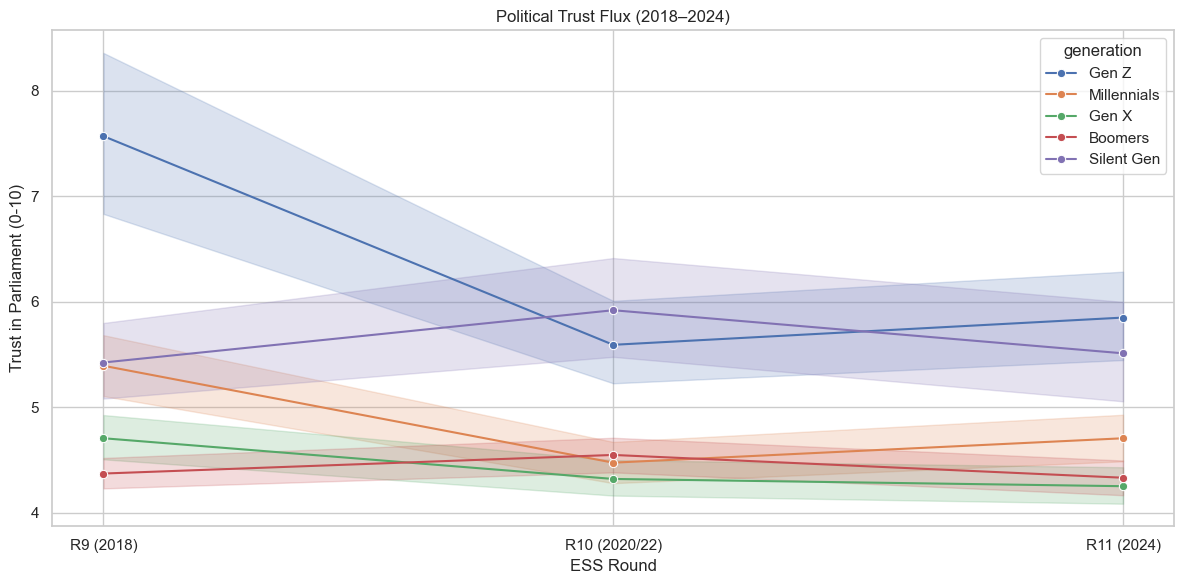
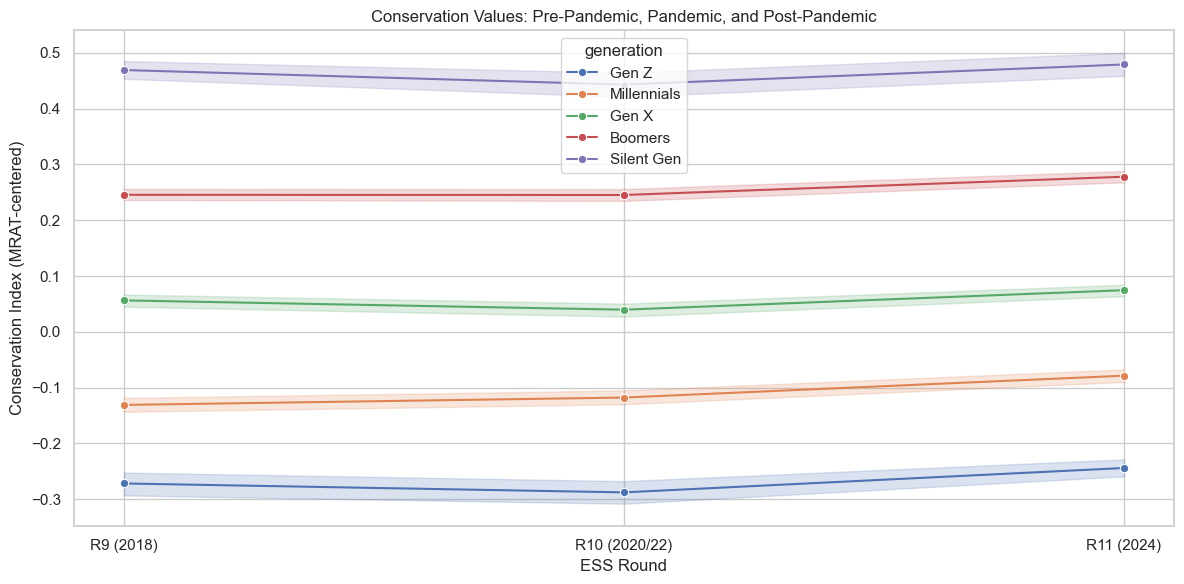
Built site for gh-pages

diff --git a/pelin_analysis.html b/pelin_analysis.html
@@ -110,6 +110,7 @@ pre > code.sourceCode > span > a:first-child::before { text-decoration: underlin
 <script type="application/javascript">define('jquery', [],function() {return window.jQuery;})</script>
 
 
+<link rel="stylesheet" href="styles.css">
 </head>
 
 <body class="nav-sidebar docked nav-fixed quarto-light">
@@ -253,11 +254,11 @@ pre > code.sourceCode > span > a:first-child::before { text-decoration: underlin
 
 <p>This analysis investigates whether the COVID-19 pandemic led to measurable changes in Conservation values (Security, Conformity, Tradition) and Political Trust in Europe. Using data from the European Social Survey (ESS), we examine three time points: Round 9 (2018) as the pre-pandemic baseline, Round 10 (2020/22) as the pandemic period, and Round 11 (2024) as the post-pandemic landscape.</p>
 <blockquote class="blockquote">
-<p><strong>Note on Data:</strong> The dataset uses MRAT-corrected (mean-centered) Schwartz value scores, which remove individual response style bias and allow reliable comparisons across rounds and generations. All three ESS rounds contain complete value data in this version of the dataset.</p>
+<p><strong>Note on Data:</strong> The dataset uses MRAT-corrected (mean-centered) Schwartz value scores, which remove individual response style bias and allow reliable comparisons across rounds and generations. Round 10 has reduced availability for Conservation value items (~61%), as documented in the data quality check below.</p>
 </blockquote>
 <section id="import-and-data-load" class="level2">
 <h2 class="anchored" data-anchor-id="import-and-data-load">Import and Data Load</h2>
-<div id="cell-import" class="cell" data-execution_count="8">
+<div id="cell-import" class="cell" data-execution_count="2">
 <details class="code-fold">
 <summary>Code</summary>
 <div class="code-copy-outer-scaffold"><div class="sourceCode cell-code" id="cb1"><pre class="sourceCode python code-with-copy"><code class="sourceCode python"><span id="cb1-1"><a href="#cb1-1" aria-hidden="true" tabindex="-1"></a><span class="im">import</span> pandas <span class="im">as</span> pd</span>
@@ -447,7 +448,7 @@ pre > code.sourceCode > span > a:first-child::before { text-decoration: underlin
 </section>
 <section id="index-construction-data-quality-check" class="level2">
 <h2 class="anchored" data-anchor-id="index-construction-data-quality-check">Index Construction &amp; Data Quality Check</h2>
-<div id="cell-index" class="cell" data-execution_count="9">
+<div id="cell-index" class="cell">
 <details class="code-fold">
 <summary>Code</summary>
 <div class="code-copy-outer-scaffold"><div class="sourceCode cell-code" id="cb3"><pre class="sourceCode python code-with-copy"><code class="sourceCode python"><span id="cb3-1"><a href="#cb3-1" aria-hidden="true" tabindex="-1"></a><span class="co"># 1. Conservation Index from MRAT-corrected (centered) scores</span></span>
@@ -469,7 +470,7 @@ pre > code.sourceCode > span > a:first-child::before { text-decoration: underlin
 <span id="cb3-17"><a href="#cb3-17" aria-hidden="true" tabindex="-1"></a>quality_df <span class="op">=</span> pd.DataFrame(quality_data).T</span>
 <span id="cb3-18"><a href="#cb3-18" aria-hidden="true" tabindex="-1"></a><span class="bu">print</span>(<span class="st">"--- Column Availability by ESS Round ---"</span>)</span>
 <span id="cb3-19"><a href="#cb3-19" aria-hidden="true" tabindex="-1"></a>display(quality_df)</span>
-<span id="cb3-20"><a href="#cb3-20" aria-hidden="true" tabindex="-1"></a><span class="bu">print</span>(<span class="st">"</span><span class="ch">\n</span><span class="st">-&gt; All value columns available across all three rounds."</span>)</span></code></pre></div><button title="Copy to Clipboard" class="code-copy-button"><i class="bi"></i></button></div>
+<span id="cb3-20"><a href="#cb3-20" aria-hidden="true" tabindex="-1"></a><span class="bu">print</span>(<span class="st">"</span><span class="ch">\n</span><span class="st">-&gt; Round 10 has reduced availability (~61%) for Conservation items."</span>)</span></code></pre></div><button title="Copy to Clipboard" class="code-copy-button"><i class="bi"></i></button></div>
 </details>
 <div class="cell-output cell-output-stdout">
 <pre><code>--- Column Availability by ESS Round ---</code></pre>
@@ -531,7 +532,7 @@ pre > code.sourceCode > span > a:first-child::before { text-decoration: underlin
 </section>
 <section id="statistical-analysis" class="level2">
 <h2 class="anchored" data-anchor-id="statistical-analysis">Statistical Analysis</h2>
-<div id="cell-stats" class="cell" data-execution_count="10">
+<div id="cell-stats" class="cell" data-execution_count="12">
 <details class="code-fold">
 <summary>Code</summary>
 <div class="code-copy-outer-scaffold"><div class="sourceCode cell-code" id="cb6"><pre class="sourceCode python code-with-copy"><code class="sourceCode python"><span id="cb6-1"><a href="#cb6-1" aria-hidden="true" tabindex="-1"></a>r9 <span class="op">=</span> df[df[<span class="st">'essround'</span>] <span class="op">==</span> <span class="dv">9</span>]</span>
@@ -571,69 +572,62 @@ Political Trust R9 vs R10 p-value: 0.00018 (Significant)
 Political Trust R9 vs R11 p-value: 0.00002 (Significant)</code></pre>
 </div>
 </div>
+<div id="e0575264" class="cell" data-execution_count="15">
+<details class="code-fold">
+<summary>Code</summary>
+<div class="code-copy-outer-scaffold"><div class="sourceCode cell-code" id="cb8"><pre class="sourceCode python code-with-copy"><code class="sourceCode python"><span id="cb8-1"><a href="#cb8-1" aria-hidden="true" tabindex="-1"></a><span class="kw">def</span> cohens_d(x, y):</span>
+<span id="cb8-2"><a href="#cb8-2" aria-hidden="true" tabindex="-1"></a>    nx, ny <span class="op">=</span> <span class="bu">len</span>(x.dropna()), <span class="bu">len</span>(y.dropna())</span>
+<span id="cb8-3"><a href="#cb8-3" aria-hidden="true" tabindex="-1"></a>    pooled_std <span class="op">=</span> np.sqrt(((nx<span class="op">-</span><span class="dv">1</span>)<span class="op">*</span>x.dropna().std()<span class="op">**</span><span class="dv">2</span> <span class="op">+</span> (ny<span class="op">-</span><span class="dv">1</span>)<span class="op">*</span>y.dropna().std()<span class="op">**</span><span class="dv">2</span>) <span class="op">/</span> (nx<span class="op">+</span>ny<span class="op">-</span><span class="dv">2</span>))</span>
+<span id="cb8-4"><a href="#cb8-4" aria-hidden="true" tabindex="-1"></a>    <span class="cf">return</span> (x.dropna().mean() <span class="op">-</span> y.dropna().mean()) <span class="op">/</span> pooled_std</span>
+<span id="cb8-5"><a href="#cb8-5" aria-hidden="true" tabindex="-1"></a></span>
+<span id="cb8-6"><a href="#cb8-6" aria-hidden="true" tabindex="-1"></a><span class="bu">print</span>(<span class="st">"=== EFFECT SIZES (Cohen's d) ==="</span>)</span>
+<span id="cb8-7"><a href="#cb8-7" aria-hidden="true" tabindex="-1"></a><span class="bu">print</span>(<span class="ss">f"Conservation R9 vs R10: d = </span><span class="sc">{</span>cohens_d(r9[<span class="st">'Conservation'</span>], r10[<span class="st">'Conservation'</span>])<span class="sc">:.3f}</span><span class="ss">"</span>)</span>
+<span id="cb8-8"><a href="#cb8-8" aria-hidden="true" tabindex="-1"></a><span class="bu">print</span>(<span class="ss">f"Conservation R9 vs R11: d = </span><span class="sc">{</span>cohens_d(r9[<span class="st">'Conservation'</span>], r11[<span class="st">'Conservation'</span>])<span class="sc">:.3f}</span><span class="ss">"</span>)</span>
+<span id="cb8-9"><a href="#cb8-9" aria-hidden="true" tabindex="-1"></a><span class="bu">print</span>(<span class="ss">f"Political Trust R9 vs R10: d = </span><span class="sc">{</span>cohens_d(r9[<span class="st">'Political_Trust'</span>], r10[<span class="st">'Political_Trust'</span>])<span class="sc">:.3f}</span><span class="ss">"</span>)</span>
+<span id="cb8-10"><a href="#cb8-10" aria-hidden="true" tabindex="-1"></a><span class="bu">print</span>(<span class="ss">f"Political Trust R9 vs R11: d = </span><span class="sc">{</span>cohens_d(r9[<span class="st">'Political_Trust'</span>], r11[<span class="st">'Political_Trust'</span>])<span class="sc">:.3f}</span><span class="ss">"</span>)</span></code></pre></div><button title="Copy to Clipboard" class="code-copy-button"><i class="bi"></i></button></div>
+</details>
+<div class="cell-output cell-output-stdout">
+<pre><code>=== EFFECT SIZES (Cohen's d) ===
+Conservation R9 vs R10: d = 0.061
+Conservation R9 vs R11: d = 0.026
+Political Trust R9 vs R10: d = 0.028
+Political Trust R9 vs R11: d = 0.034</code></pre>
+</div>
+</div>
 <p>The summary statistics and t-tests provide the following insights:</p>
 <p><strong>Conservation Values</strong></p>
 <p><em>R9 vs R10 (Pandemic Period):</em> Conservation scores declined from a pre-pandemic mean of 0.114 (R9) to 0.077 (R10) during the pandemic. This difference is statistically significant (p &lt; 0.001).</p>
 <p><em>R9 vs R11 (Long-Term):</em> By 2024, Conservation values partially recovered to a mean of 0.098, but remained below the pre-pandemic baseline. This difference is also statistically significant (p &lt; 0.001).</p>
 <p>The direction of change is counterintuitive: rather than driving Europeans toward greater security-seeking and conformity, the pandemic appears to have slightly loosened conservation-oriented value priorities.</p>
+<p>While both comparisons reach statistical significance due to the large sample size (n ≈ 136,000), the effect sizes are negligible (Cohen’s d = 0.061 for R9 vs R10; d = 0.026 for R9 vs R11). This indicates that although the shifts are real, they are very small in practical terms and should be interpreted with caution.</p>
 <p><strong>Political Trust</strong></p>
 <p><em>R9 vs R10 (Pandemic Period):</em> Trust in parliament dropped from a pre-pandemic mean of 4.99 (R9) to 4.70 (R10). This decline is statistically significant (p &lt; 0.001).</p>
 <p><em>R9 vs R11 (Long-Term):</em> By 2024, trust measured 4.65, remaining below both the pre-pandemic and pandemic-period levels. This difference is statistically significant (p &lt; 0.001).</p>
 <p>The pattern suggests that the pandemic functioned as a lasting trust-eroding event rather than a temporary disruption.</p>
+<p>Effect sizes for political trust are similarly small (Cohen’s d = 0.028 for R9 vs R10; d = 0.034 for R9 vs R11), suggesting that while the decline is statistically robust, the magnitude of change at the aggregate level is modest.</p>
 </section>
 <section id="visualization" class="level2">
 <h2 class="anchored" data-anchor-id="visualization">Visualization</h2>
 <p><em>Figure 1 presents the generational trends in Conservation values across the three ESS rounds (R9: 2018, R10: 2020/22, R11: 2024). The MRAT-centered Conservation Index is plotted on the y-axis, with higher values indicating stronger prioritization of security, conformity, and tradition:</em></p>
-<div id="cell-viz" class="cell" data-execution_count="6">
+<div id="cell-viz" class="cell" data-execution_count="13">
 <details class="code-fold">
 <summary>Code</summary>
-<div class="code-copy-outer-scaffold"><div class="sourceCode cell-code" id="cb8"><pre class="sourceCode python code-with-copy"><code class="sourceCode python"><span id="cb8-1"><a href="#cb8-1" aria-hidden="true" tabindex="-1"></a>gen_order <span class="op">=</span> [<span class="st">'Gen Z'</span>, <span class="st">'Millennials'</span>, <span class="st">'Gen X'</span>, <span class="st">'Boomers'</span>, <span class="st">'Silent Gen'</span>]</span>
-<span id="cb8-2"><a href="#cb8-2" aria-hidden="true" tabindex="-1"></a></span>
-<span id="cb8-3"><a href="#cb8-3" aria-hidden="true" tabindex="-1"></a><span class="co"># Graph 1: Conservation Trend by Generation (all 3 rounds)</span></span>
-<span id="cb8-4"><a href="#cb8-4" aria-hidden="true" tabindex="-1"></a>plt.figure(figsize<span class="op">=</span>(<span class="dv">12</span>, <span class="dv">6</span>))</span>
-<span id="cb8-5"><a href="#cb8-5" aria-hidden="true" tabindex="-1"></a>sns.lineplot(</span>
-<span id="cb8-6"><a href="#cb8-6" aria-hidden="true" tabindex="-1"></a>    data<span class="op">=</span>df[df[<span class="st">'essround'</span>].isin([<span class="dv">9</span>, <span class="dv">10</span>, <span class="dv">11</span>])],</span>
-<span id="cb8-7"><a href="#cb8-7" aria-hidden="true" tabindex="-1"></a>    x<span class="op">=</span><span class="st">'essround'</span>, y<span class="op">=</span><span class="st">'Conservation'</span>,</span>
-<span id="cb8-8"><a href="#cb8-8" aria-hidden="true" tabindex="-1"></a>    hue<span class="op">=</span><span class="st">'generation'</span>, marker<span class="op">=</span><span class="st">'o'</span>,</span>
-<span id="cb8-9"><a href="#cb8-9" aria-hidden="true" tabindex="-1"></a>    hue_order<span class="op">=</span>gen_order</span>
-<span id="cb8-10"><a href="#cb8-10" aria-hidden="true" tabindex="-1"></a>)</span>
-<span id="cb8-11"><a href="#cb8-11" aria-hidden="true" tabindex="-1"></a>plt.title(<span class="st">"Conservation Values: Pre-Pandemic, Pandemic, and Post-Pandemic"</span>)</span>
-<span id="cb8-12"><a href="#cb8-12" aria-hidden="true" tabindex="-1"></a>plt.xticks([<span class="dv">9</span>, <span class="dv">10</span>, <span class="dv">11</span>], [<span class="st">'R9 (2018)'</span>, <span class="st">'R10 (2020/22)'</span>, <span class="st">'R11 (2024)'</span>])</span>
-<span id="cb8-13"><a href="#cb8-13" aria-hidden="true" tabindex="-1"></a>plt.ylabel(<span class="st">"Conservation Index (MRAT-centered)"</span>)</span>
-<span id="cb8-14"><a href="#cb8-14" aria-hidden="true" tabindex="-1"></a>plt.xlabel(<span class="st">"ESS Round"</span>)</span>
-<span id="cb8-15"><a href="#cb8-15" aria-hidden="true" tabindex="-1"></a>plt.tight_layout()</span>
-<span id="cb8-16"><a href="#cb8-16" aria-hidden="true" tabindex="-1"></a>plt.show()</span></code></pre></div><button title="Copy to Clipboard" class="code-copy-button"><i class="bi"></i></button></div>
-</details>
-<div class="cell-output cell-output-display">
-<div>
-<figure class="figure">
-<p><img src="pelin_analysis_files/figure-html/cell-5-output-1.png" class="img-fluid figure-img"></p>
-</figure>
-</div>
-</div>
-</div>
-<p>Figure 1 reveals a clear and stable generational hierarchy across all three rounds. Silent Gen consistently scores highest on Conservation, followed by Millennials, Gen X, Boomers, and Gen Z (lowest). This ordering remains unchanged from 2018 to 2024.</p>
-<p>At the aggregate level (all generations combined), Conservation values show a modest decline from R9 to R10 followed by a partial recovery in R11.</p>
-<p>The findings confirm conventional expectations: older generations consistently prioritize Conservation values (security, conformity, and tradition) more highly than their younger counterparts. Gen Z and Millennials score lowest on Conservation throughout the 2018–2024 period. This generational hierarchy proves resilient across the pandemic, with no reversal or convergence observed.</p>
-<hr>
-<p><em>Figure 2 presents the generational trends in Political Trust across the same three rounds, measured on a 0–10 scale (higher values = greater trust in parliament):</em></p>
-<div id="596286c9" class="cell" data-execution_count="7">
-<details class="code-fold">
-<summary>Code</summary>
-<div class="code-copy-outer-scaffold"><div class="sourceCode cell-code" id="cb9"><pre class="sourceCode python code-with-copy"><code class="sourceCode python"><span id="cb9-1"><a href="#cb9-1" aria-hidden="true" tabindex="-1"></a><span class="co"># Graph 2: Political Trust Trend (all 3 rounds)</span></span>
-<span id="cb9-2"><a href="#cb9-2" aria-hidden="true" tabindex="-1"></a>plt.figure(figsize<span class="op">=</span>(<span class="dv">12</span>, <span class="dv">6</span>))</span>
-<span id="cb9-3"><a href="#cb9-3" aria-hidden="true" tabindex="-1"></a>sns.lineplot(</span>
-<span id="cb9-4"><a href="#cb9-4" aria-hidden="true" tabindex="-1"></a>    data<span class="op">=</span>df[df[<span class="st">'essround'</span>].isin([<span class="dv">9</span>, <span class="dv">10</span>, <span class="dv">11</span>])],</span>
-<span id="cb9-5"><a href="#cb9-5" aria-hidden="true" tabindex="-1"></a>    x<span class="op">=</span><span class="st">'essround'</span>, y<span class="op">=</span><span class="st">'Political_Trust'</span>,</span>
-<span id="cb9-6"><a href="#cb9-6" aria-hidden="true" tabindex="-1"></a>    hue<span class="op">=</span><span class="st">'generation'</span>, marker<span class="op">=</span><span class="st">'o'</span>,</span>
-<span id="cb9-7"><a href="#cb9-7" aria-hidden="true" tabindex="-1"></a>    hue_order<span class="op">=</span>gen_order</span>
-<span id="cb9-8"><a href="#cb9-8" aria-hidden="true" tabindex="-1"></a>)</span>
-<span id="cb9-9"><a href="#cb9-9" aria-hidden="true" tabindex="-1"></a>plt.title(<span class="st">"Political Trust Flux (2018–2024)"</span>)</span>
-<span id="cb9-10"><a href="#cb9-10" aria-hidden="true" tabindex="-1"></a>plt.xticks([<span class="dv">9</span>, <span class="dv">10</span>, <span class="dv">11</span>], [<span class="st">'R9 (2018)'</span>, <span class="st">'R10 (2020/22)'</span>, <span class="st">'R11 (2024)'</span>])</span>
-<span id="cb9-11"><a href="#cb9-11" aria-hidden="true" tabindex="-1"></a>plt.ylabel(<span class="st">"Trust in Parliament (0-10)"</span>)</span>
-<span id="cb9-12"><a href="#cb9-12" aria-hidden="true" tabindex="-1"></a>plt.xlabel(<span class="st">"ESS Round"</span>)</span>
-<span id="cb9-13"><a href="#cb9-13" aria-hidden="true" tabindex="-1"></a>plt.tight_layout()</span>
-<span id="cb9-14"><a href="#cb9-14" aria-hidden="true" tabindex="-1"></a>plt.show()</span></code></pre></div><button title="Copy to Clipboard" class="code-copy-button"><i class="bi"></i></button></div>
+<div class="code-copy-outer-scaffold"><div class="sourceCode cell-code" id="cb10"><pre class="sourceCode python code-with-copy"><code class="sourceCode python"><span id="cb10-1"><a href="#cb10-1" aria-hidden="true" tabindex="-1"></a>gen_order <span class="op">=</span> [<span class="st">'Gen Z'</span>, <span class="st">'Millennials'</span>, <span class="st">'Gen X'</span>, <span class="st">'Boomers'</span>, <span class="st">'Silent Gen'</span>]</span>
+<span id="cb10-2"><a href="#cb10-2" aria-hidden="true" tabindex="-1"></a></span>
+<span id="cb10-3"><a href="#cb10-3" aria-hidden="true" tabindex="-1"></a><span class="co"># Graph 1: Conservation Trend by Generation (all 3 rounds)</span></span>
+<span id="cb10-4"><a href="#cb10-4" aria-hidden="true" tabindex="-1"></a>plt.figure(figsize<span class="op">=</span>(<span class="dv">12</span>, <span class="dv">6</span>))</span>
+<span id="cb10-5"><a href="#cb10-5" aria-hidden="true" tabindex="-1"></a>sns.lineplot(</span>
+<span id="cb10-6"><a href="#cb10-6" aria-hidden="true" tabindex="-1"></a>    data<span class="op">=</span>df[df[<span class="st">'essround'</span>].isin([<span class="dv">9</span>, <span class="dv">10</span>, <span class="dv">11</span>])],</span>
+<span id="cb10-7"><a href="#cb10-7" aria-hidden="true" tabindex="-1"></a>    x<span class="op">=</span><span class="st">'essround'</span>, y<span class="op">=</span><span class="st">'Conservation'</span>,</span>
+<span id="cb10-8"><a href="#cb10-8" aria-hidden="true" tabindex="-1"></a>    hue<span class="op">=</span><span class="st">'generation'</span>, marker<span class="op">=</span><span class="st">'o'</span>,</span>
+<span id="cb10-9"><a href="#cb10-9" aria-hidden="true" tabindex="-1"></a>    hue_order<span class="op">=</span>gen_order</span>
+<span id="cb10-10"><a href="#cb10-10" aria-hidden="true" tabindex="-1"></a>)</span>
+<span id="cb10-11"><a href="#cb10-11" aria-hidden="true" tabindex="-1"></a>plt.title(<span class="st">"Conservation Values: Pre-Pandemic, Pandemic, and Post-Pandemic"</span>)</span>
+<span id="cb10-12"><a href="#cb10-12" aria-hidden="true" tabindex="-1"></a>plt.xticks([<span class="dv">9</span>, <span class="dv">10</span>, <span class="dv">11</span>], [<span class="st">'R9 (2018)'</span>, <span class="st">'R10 (2020/22)'</span>, <span class="st">'R11 (2024)'</span>])</span>
+<span id="cb10-13"><a href="#cb10-13" aria-hidden="true" tabindex="-1"></a>plt.ylabel(<span class="st">"Conservation Index (MRAT-centered)"</span>)</span>
+<span id="cb10-14"><a href="#cb10-14" aria-hidden="true" tabindex="-1"></a>plt.xlabel(<span class="st">"ESS Round"</span>)</span>
+<span id="cb10-15"><a href="#cb10-15" aria-hidden="true" tabindex="-1"></a>plt.tight_layout()</span>
+<span id="cb10-16"><a href="#cb10-16" aria-hidden="true" tabindex="-1"></a>plt.show()</span></code></pre></div><button title="Copy to Clipboard" class="code-copy-button"><i class="bi"></i></button></div>
 </details>
 <div class="cell-output cell-output-display">
 <div>
@@ -643,12 +637,42 @@ Political Trust R9 vs R11 p-value: 0.00002 (Significant)</code></pre>
 </div>
 </div>
 </div>
+<p>Figure 1 reveals a clear and stable generational hierarchy across all three rounds. Silent Gen consistently scores highest on Conservation, followed by Boomers, Gen X, Millennials, and Gen Z (lowest). This ordering remains unchanged from 2018 to 2024.</p>
+<p>At the aggregate level (all generations combined), Conservation values show a modest decline from R9 to R10 followed by a partial recovery in R11.</p>
+<p>The findings confirm conventional expectations: older generations consistently prioritize Conservation values (security, conformity, and tradition) more highly than their younger counterparts. Gen Z and Millennials score lowest on Conservation throughout the 2018–2024 period. This generational hierarchy proves resilient across the pandemic, with no reversal or convergence observed.</p>
+<p><em>Figure 2 presents the generational trends in Political Trust across the same three rounds, measured on a 0–10 scale (higher values = greater trust in parliament):</em></p>
+<div id="596286c9" class="cell" data-execution_count="14">
+<details class="code-fold">
+<summary>Code</summary>
+<div class="code-copy-outer-scaffold"><div class="sourceCode cell-code" id="cb11"><pre class="sourceCode python code-with-copy"><code class="sourceCode python"><span id="cb11-1"><a href="#cb11-1" aria-hidden="true" tabindex="-1"></a><span class="co"># Graph 2: Political Trust Trend (all 3 rounds)</span></span>
+<span id="cb11-2"><a href="#cb11-2" aria-hidden="true" tabindex="-1"></a>plt.figure(figsize<span class="op">=</span>(<span class="dv">12</span>, <span class="dv">6</span>))</span>
+<span id="cb11-3"><a href="#cb11-3" aria-hidden="true" tabindex="-1"></a>sns.lineplot(</span>
+<span id="cb11-4"><a href="#cb11-4" aria-hidden="true" tabindex="-1"></a>    data<span class="op">=</span>df[df[<span class="st">'essround'</span>].isin([<span class="dv">9</span>, <span class="dv">10</span>, <span class="dv">11</span>])],</span>
+<span id="cb11-5"><a href="#cb11-5" aria-hidden="true" tabindex="-1"></a>    x<span class="op">=</span><span class="st">'essround'</span>, y<span class="op">=</span><span class="st">'Political_Trust'</span>,</span>
+<span id="cb11-6"><a href="#cb11-6" aria-hidden="true" tabindex="-1"></a>    hue<span class="op">=</span><span class="st">'generation'</span>, marker<span class="op">=</span><span class="st">'o'</span>,</span>
+<span id="cb11-7"><a href="#cb11-7" aria-hidden="true" tabindex="-1"></a>    hue_order<span class="op">=</span>gen_order</span>
+<span id="cb11-8"><a href="#cb11-8" aria-hidden="true" tabindex="-1"></a>)</span>
+<span id="cb11-9"><a href="#cb11-9" aria-hidden="true" tabindex="-1"></a>plt.title(<span class="st">"Political Trust Flux (2018–2024)"</span>)</span>
+<span id="cb11-10"><a href="#cb11-10" aria-hidden="true" tabindex="-1"></a>plt.xticks([<span class="dv">9</span>, <span class="dv">10</span>, <span class="dv">11</span>], [<span class="st">'R9 (2018)'</span>, <span class="st">'R10 (2020/22)'</span>, <span class="st">'R11 (2024)'</span>])</span>
+<span id="cb11-11"><a href="#cb11-11" aria-hidden="true" tabindex="-1"></a>plt.ylabel(<span class="st">"Trust in Parliament (0-10)"</span>)</span>
+<span id="cb11-12"><a href="#cb11-12" aria-hidden="true" tabindex="-1"></a>plt.xlabel(<span class="st">"ESS Round"</span>)</span>
+<span id="cb11-13"><a href="#cb11-13" aria-hidden="true" tabindex="-1"></a>plt.tight_layout()</span>
+<span id="cb11-14"><a href="#cb11-14" aria-hidden="true" tabindex="-1"></a>plt.show()</span></code></pre></div><button title="Copy to Clipboard" class="code-copy-button"><i class="bi"></i></button></div>
+</details>
+<div class="cell-output cell-output-display">
+<div>
+<figure class="figure">
+<p><img src="pelin_analysis_files/figure-html/cell-7-output-1.png" class="img-fluid figure-img"></p>
+</figure>
+</div>
+</div>
+</div>
 <p>Figure 2 shows a sustained decline in political trust across most generations, but with notable differences in magnitude, timing, and trajectory.</p>
-<p>Gen Z enters the period with the highest trust and experiences the steepest decline (to approximately 5.8 by R10), with only a negligible recovery by R11.</p>
-<p>Silent Gen begins with the second-highest trust, increases slightly in R10, then declines by R11.</p>
-<p>Millennials start at a similar level to Silent Gen, drop to 4.8 in R10, and partially recover to 4.9 by R11.</p>
-<p>Gen X declines steadily from 4.6 (R9) to 4.2 (R10) and further to 4.0 (R11), becoming the lowest-trust group by the end of the period.*</p>
-<p>Boomers begin with the lowest trust (4.3 in R9), increase slightly to 4.4 in R10, then decline to 4.1 by R11.</p>
+<p>Gen Z enters the period with the highest trust (7.57) and experiences the steepest decline (to 5.59 by R10), with a slight recovery to 5.85 by R11.</p>
+<p>Silent Gen begins with the second-highest trust (5.42), increases to 5.92 in R10, then declines to 5.51 by R11.</p>
+<p>Millennials start at a similar level to Silent Gen (5.39), drop to 4.48 in R10, and partially recover to 4.71 by R11.</p>
+<p>Gen X declines steadily from 4.71 (R9) to 4.32 (R10) and further to 4.25 (R11).</p>
+<p>Boomers begin with the lowest trust (4.37 in R9), increase slightly to 4.55 in R10, then decline to 4.33 by R11.</p>
 <p>The pandemic appears to have eroded political trust across all age groups, though not uniformly. Gen Z experienced the largest absolute decline, while Boomers showed a temporary increase during the pandemic before declining. Trust levels remain divergent by R11, with Gen X falling below Boomers.</p>
 </section>
 <section id="conclusion" class="level2">
@@ -660,19 +684,21 @@ Political Trust R9 vs R11 p-value: 0.00002 (Significant)</code></pre>
 <p>The modest aggregate decline in Conservation values, combined with this stable generational hierarchy, suggests that while the pandemic may have slightly loosened conservation-oriented priorities overall, deep-seated generational value differences; with older generations placing greater emphasis on security, conformity, and tradition; remained largely resilient to the shock.</p>
 <p><strong>Political Trust</strong></p>
 <p>Political trust shows a clear and significant decline.</p>
-<p>Figure 2 reveals that generational trajectories differ substantially. Gen Z starts highest (7.5), declines most sharply (to 5.8), and recovers only marginally by R11 (5.9). Silent Gen and Millennials begin at similar levels (≈5.4), but while Millennials drop immediately and partially recover, Silent Gen increases slightly in R10 before declining to 5.0. Boomers increase temporarily in R10 (4.3 → 4.4) before falling to 4.1, whereas Gen X declines steadily to become the lowest-trust group by R11 (4.0). Trust levels do not converge by 2024.</p>
+<p>Figure 2 reveals that generational trajectories differ substantially. Gen Z starts highest (7.57), declines most sharply (to 5.59 in R10), and partially recovers to 5.85 by R11. Silent Gen and Millennials begin at similar levels (≈5.4), but while Millennials drop immediately and partially recover, Silent Gen increases to 5.92 in R10 before declining to 5.51. Boomers increase temporarily in R10 (4.37 → 4.55) before falling to 4.33, whereas Gen X declines steadily to become the lowest-trust group by R11 (4.25). Trust levels do not converge by 2024.</p>
 <p>The pandemic eroded political trust across all age groups, but younger generations, who entered the period with higher trust, experienced the largest absolute declines. By 2024, trust levels across generations had largely converged downward.</p>
 <p><strong>Summary</strong></p>
 <table class="caption-top table">
 <colgroup>
 <col style="width: 22%">
 <col style="width: 34%">
-<col style="width: 42%">
+<col style="width: 22%">
+<col style="width: 20%">
 </colgroup>
 <thead>
 <tr class="header">
 <th>Dimension</th>
 <th>Aggregate Change</th>
+<th>Effect Size</th>
 <th>Generational Pattern</th>
 </tr>
 </thead>
@@ -680,16 +706,19 @@ Political Trust R9 vs R11 p-value: 0.00002 (Significant)</code></pre>
 <tr class="odd">
 <td><strong>Conservation</strong></td>
 <td>Modest, significant decline (R9→R10) followed by partial recovery (R11)</td>
+<td>Negligible (d ≤ 0.061)</td>
 <td>Stable hierarchy: Silent Gen highest, Gen Z lowest, older generations more conservation, oriented</td>
 </tr>
 <tr class="even">
 <td><strong>Political Trust</strong></td>
 <td>Clear and significant decline</td>
+<td>Negligible (d ≤ 0.034)</td>
 <td>Gen Z declines most sharply; Boomers and Silent Gen show temporary R10 increases; Gen X becomes lowest by R11</td>
 </tr>
 </tbody>
 </table>
 <p>Together, these findings indicate that while the pandemic modestly loosened conservation-oriented value priorities and durably eroded institutional trust in Europe, deep-seated generational differences, with older generations prioritizing conservation values more highly and younger generations experiencing greater trust erosion, were central features of the crisis response.</p>
+<p>These findings partially diverge from Bonetto et al.&nbsp;(2021), who reported a short-term rise in Conservation values during the first French lockdown. The difference likely reflects the broader geographic scope and longer time window of the present study: aggregate ESS data spanning all of Europe and multiple pandemic phases may capture a recovery or reversal not visible in single-country, early-pandemic snapshots. Similarly, Vecchione (2022) found that income loss during the pandemic was associated with rising Conservation in Italy; suggesting that individual-level economic exposure, rather than the pandemic shock itself, may be the key driver. These nuances underscore the importance of geographic and temporal context when interpreting value change during collective crises.</p>
 
 
 </section>

diff --git a/introduction.html b/introduction.html
@@ -72,6 +72,7 @@ ul.task-list li input[type="checkbox"] {
 }</script>
 
 
+<link rel="stylesheet" href="styles.css">
 </head>
 
 <body class="nav-sidebar docked nav-fixed quarto-light">
@@ -182,8 +183,8 @@ ul.task-list li input[type="checkbox"] {
     <h2 id="toc-title">On this page</h2>
    
   <ul>
-  <li><a href="#project-description" id="toc-project-description" class="nav-link active" data-scroll-target="#project-description">Project Description</a></li>
-  <li><a href="#data-sources" id="toc-data-sources" class="nav-link" data-scroll-target="#data-sources">Data Sources</a></li>
+  <li><a href="#project-overview" id="toc-project-overview" class="nav-link active" data-scroll-target="#project-overview">Project Overview</a></li>
+  <li><a href="#data-and-preprocessing" id="toc-data-and-preprocessing" class="nav-link" data-scroll-target="#data-and-preprocessing">Data and Preprocessing</a></li>
   <li><a href="#sections" id="toc-sections" class="nav-link" data-scroll-target="#sections">Sections</a></li>
   </ul>
 </nav>
@@ -210,20 +211,23 @@ ul.task-list li input[type="checkbox"] {
 </header>
 
 
-<section id="project-description" class="level1">
-<h1>Project Description</h1>
-<p>Understanding how personal values shape political attitudes is a key question in political sociology. In Europe, this relationship has been tested by major societal changes, particularly the COVID-19 pandemic. This project examines whether such disruptions have altered the link between human values and political orientations across generations.</p>
+<section id="project-overview" class="level1">
+<h1>Project Overview</h1>
+<p>Understanding how personal values shape political attitudes is a central question in political sociology. In Europe, this relationship has been tested by major societal disruptions, most notably the COVID-19 pandemic, which created a rare opportunity to examine whether a collective shock can measurably alter the link between individual value systems and political orientations.</p>
+<p>This project uses data from the European Social Survey (ESS), covering Round 9 (2018, pre-pandemic), Round 10 (2020–2022, pandemic period), and Round 11 (2022–2024, post-pandemic). The analysis is grounded in the <strong>Schwartz Theory of Basic Human Values</strong>, which organises ten core motivational values; from Universalism and Benevolence to Security, Conformity, and Power in a circular structure where adjacent values are compatible and opposing values reflect conflicting motivational priorities.</p>
+<p>By comparing respondents across five generational cohorts (Generation Z, Millennials, Generation X, Boomers, and the Silent Generation), the study investigates whether younger generations are developing a distinct value profile that may reshape future European political dynamics.</p>
 </section>
-<section id="data-sources" class="level1">
-<h1>Data Sources</h1>
-<p>The analysis uses data from the European Social Survey (Rounds 9–11). We construct value indices based on the Schwartz framework and analyze their relationship with political attitudes using descriptive statistics and statistical tests.</p>
+<section id="data-and-preprocessing" class="level1">
+<h1>Data and Preprocessing</h1>
+<p>The analysis uses data from ESS Rounds 9–11, covering approximately 136,000 respondents across Europe. Human values are measured using the Portrait Values Questionnaire (PVQ-21), a 21-item battery rated on a 1–6 scale.</p>
+<p>The raw data were preprocessed in three main steps: missing value codes were replaced with <code>NaN</code>, items were reverse-coded so that higher scores reflect stronger endorsement, and a <strong>MRAT (Mean Rating) correction</strong> was applied. The MRAT correction centers each respondent’s value scores around their own personal mean, removing individual response style bias and enabling reliable comparisons across rounds and generations. The resulting dataset, <code>ess_final_analysis.csv</code>, is used in all subsequent analyses.</p>
 </section>
 <section id="sections" class="level1">
 <h1>Sections</h1>
 <p>This project is structured into several sections, each addressing a specific part of the analysis and research questions.</p>
 <ul>
 <li>The <a href="./literature_review.html">Literature Review</a> provides the theoretical background based on Schwartz’s Theory of Basic Human Values and discusses previous empirical findings.</li>
-<li>The empirical analysis is presented in dedicated sections (the research questions), where we explore the relationship between human values and political attitudes using European Social Survey data.</li>
+<li>The empirical analysis is presented in dedicated sections (The Research Questions), where we explore the relationship between human values and political attitudes using European Social Survey data.</li>
 <li>The <a href="./conclusion.html">Conclusion</a> summarizes the key findings and reflects on their implications for understanding political behavior in Europe.</li>
 </ul>
 <p>The Research Questions are:</p>

diff --git a/sec1.html b/sec1.html
@@ -110,6 +110,7 @@ pre > code.sourceCode > span > a:first-child::before { text-decoration: underlin
 <script type="application/javascript">define('jquery', [],function() {return window.jQuery;})</script>
 
 
+<link rel="stylesheet" href="styles.css">
 </head>
 
 <body class="nav-sidebar docked nav-fixed quarto-light">
@@ -270,7 +271,7 @@ pre > code.sourceCode > span > a:first-child::before { text-decoration: underlin
 <h2 class="anchored" data-anchor-id="data-preprocessing">Data Preprocessing</h2>
 <section id="data-importing" class="level3">
 <h3 class="anchored" data-anchor-id="data-importing">Data importing</h3>
-<div id="520f6981" class="cell" data-execution_count="1">
+<div id="d28cfe71" class="cell" data-execution_count="1">
 <details class="code-fold">
 <summary>Code</summary>
 <div class="code-copy-outer-scaffold"><div class="sourceCode cell-code" id="cb1"><pre class="sourceCode python code-with-copy"><code class="sourceCode python"><span id="cb1-1"><a href="#cb1-1" aria-hidden="true" tabindex="-1"></a><span class="im">import</span> pandas <span class="im">as</span> pd</span>
@@ -296,7 +297,7 @@ Dataset Size: 159320 rows x 635 columns</code></pre>
 </section>
 <section id="data-exploration" class="level3">
 <h3 class="anchored" data-anchor-id="data-exploration">Data Exploration</h3>
-<div id="fb95737c" class="cell" data-execution_count="2">
+<div id="1bdc7e7f" class="cell" data-execution_count="2">
 <details class="code-fold">
 <summary>Code</summary>
 <div class="code-copy-outer-scaffold"><div class="sourceCode cell-code" id="cb3"><pre class="sourceCode python code-with-copy"><code class="sourceCode python"><span id="cb3-1"><a href="#cb3-1" aria-hidden="true" tabindex="-1"></a><span class="im">import</span> matplotlib.pyplot <span class="im">as</span> plt</span>

diff --git a/styles.css b/styles.css
@@ -1,0 +1,3 @@
+p {
+  text-align: justify;
+}

diff --git a/Felix-Analysis.html b/Felix-Analysis.html
@@ -107,6 +107,7 @@ pre > code.sourceCode > span > a:first-child::before { text-decoration: underlin
 }</script>
 
 
+<link rel="stylesheet" href="styles.css">
 </head>
 
 <body class="nav-sidebar docked nav-fixed quarto-light">

diff --git a/Maria_Question_6.html b/Maria_Question_6.html
@@ -136,6 +136,7 @@ window.Quarto = {
 };
 </script>
 
+<link rel="stylesheet" href="styles.css">
 </head>
 
 <body class="nav-sidebar docked nav-fixed quarto-light">

diff --git a/Q2_Tayaphon.html b/Q2_Tayaphon.html
@@ -139,6 +139,7 @@ window.Quarto = {
 };
 </script>
 
+<link rel="stylesheet" href="styles.css">
 </head>
 
 <body class="nav-sidebar docked nav-fixed quarto-light">

diff --git a/Uyazi_Q5.html b/Uyazi_Q5.html
@@ -110,6 +110,7 @@ pre > code.sourceCode > span > a:first-child::before { text-decoration: underlin
 <script type="application/javascript">define('jquery', [],function() {return window.jQuery;})</script>
 
 
+<link rel="stylesheet" href="styles.css">
 </head>
 
 <body class="nav-sidebar docked nav-fixed quarto-light">

diff --git a/conclusion.html b/conclusion.html
@@ -72,6 +72,7 @@ ul.task-list li input[type="checkbox"] {
 }</script>
 
 
+<link rel="stylesheet" href="styles.css">
 </head>
 
 <body class="nav-sidebar docked nav-fixed quarto-light">

diff --git a/index.html b/index.html
@@ -78,6 +78,7 @@ ul.task-list li input[type="checkbox"] {
 }</script>
 
 
+<link rel="stylesheet" href="styles.css">
 </head>
 
 <body class="nav-sidebar docked nav-fixed quarto-light">

diff --git a/literature_review.html b/literature_review.html
@@ -72,6 +72,7 @@ ul.task-list li input[type="checkbox"] {
 }</script>
 
 
+<link rel="stylesheet" href="styles.css">
 </head>
 
 <body class="nav-sidebar docked nav-fixed quarto-light">

diff --git a/sec2.html b/sec2.html
@@ -72,6 +72,7 @@ ul.task-list li input[type="checkbox"] {
 }</script>
 
 
+<link rel="stylesheet" href="styles.css">
 </head>
 
 <body class="nav-sidebar docked nav-fixed quarto-light">